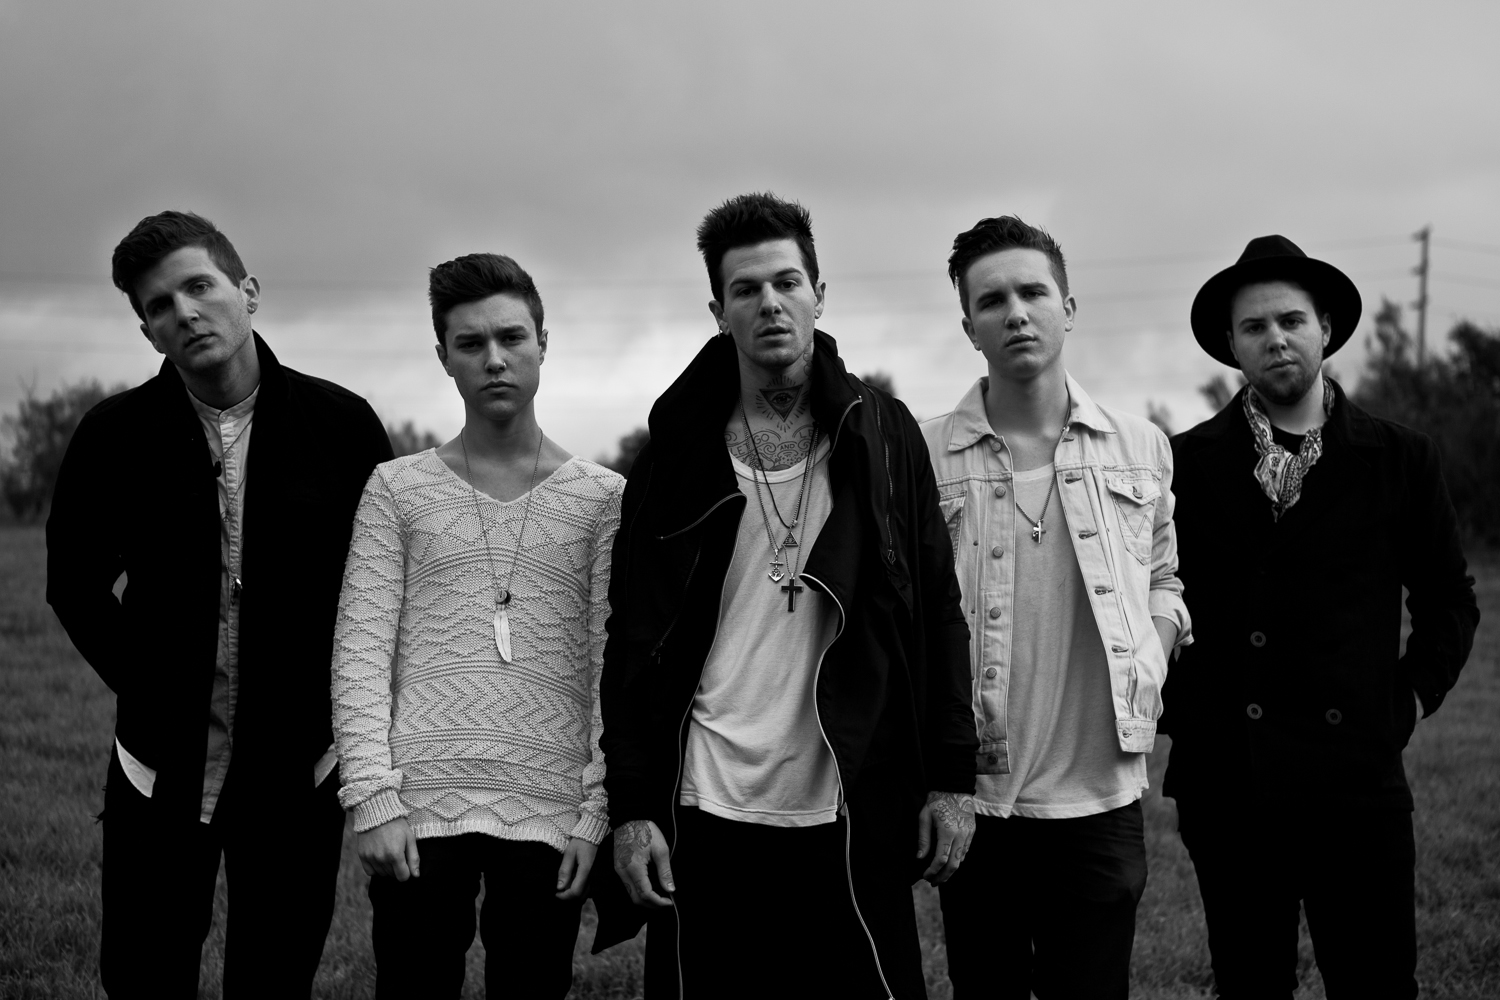
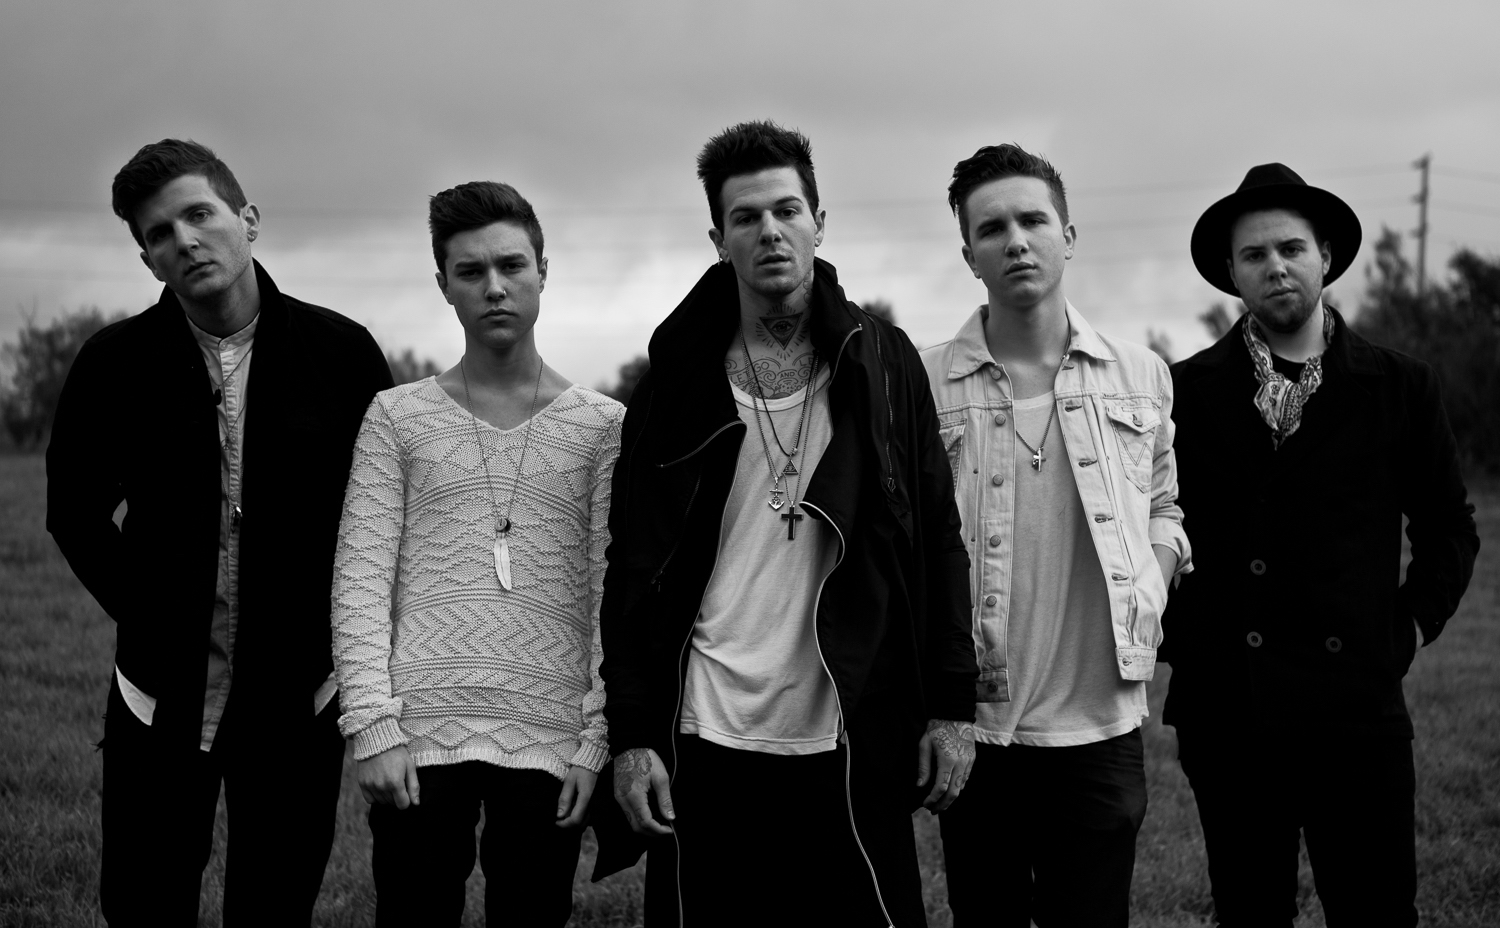
Modified hero image and button hover, #1 #2 #3 #4

diff --git a/css/default.css b/css/default.css
@@ -8,6 +8,10 @@ body {
 /*Css for header*/
 .header {
   background-color: #10100a;
+  position: fixed;
+  width: 100%;
+  z-index: 10;
+  margin: 0px 0px 0px 0px;
 }
 
 .navigation,
@@ -33,7 +37,6 @@ body {
   background-image: url(../images/neighbourhood.jpg);
   background-repeat: no-repeat;
   max-width: 100%;
-  background-position: center center;
   background-attachment: fixed;
   background-size: cover;
 }
@@ -50,6 +53,10 @@ body {
   font-family: 'Oxygen', helvetica, sans-serif;
   font-size: 24px;
   color: #fdfdf4;
+}
+
+.sign-up:hover {
+  color: #f1fd14;
 }
 
 .modal-title {
@@ -85,6 +92,16 @@ body {
   border-color: #a3a57c;
 }
 
+.submit:hover {
+  background-color: #f1fd14;
+  color: #10100a;
+}
+
+.exit:hover {
+  background-color: #10100a;
+  color: #fdfdf4;
+}
+
 .close {
   color: #fbfec2;
 }
@@ -113,6 +130,11 @@ body {
   border: 1px solid;
   border-color: #fdfdf4;
   border-radius: 10px;
+  z-index: 11;
+}
+
+#login:hover {
+  color: #f1fd14;
 }
 
 #login {
@@ -154,6 +176,11 @@ body {
   margin-right: 20px;
 }
 
+.submit1:hover {
+  background-color: #f1fd14;
+  color: #10100a;
+}
+
 #checkbox1 {
   margin: 0px 10px 0px 10px;
 }
@@ -163,6 +190,10 @@ body {
   font-family: 'Oxygen', helvetica, sans-serif;
   font-size: 24px;
   color: #fdfdf4;
+}
+
+.contact-us:hover {
+  color: #f1fd14;
 }
 
 #name {
@@ -309,8 +340,20 @@ body {
   margin-left: auto;
 }
 
+.premium-button:hover {
+  background-color: #10100a;
+  color: #f1fd14;
+  border-color: #f1fd14; 
+}
+
 .free-button {
   background-color: #222321;
+  color: #a3a57c;
+  border-color: #a3a57c;
+}
+
+.free-button:hover {
+  background-color: #10100a;
   color: #a3a57c;
   border-color: #a3a57c;
 }
@@ -324,7 +367,7 @@ body {
   text-align: center;
   font-family: 'Oxygen', helvetica, sans-serif;
   color: #fdfdf4;
-  margin-top: 60px;
+  margin-top: 40px;
 }
 
 .icon{

diff --git a/index.html b/index.html
@@ -85,7 +85,7 @@
         <div class="modal-body">
           <form>
             <div class="form">
-              <div><label class="info" for="name">Username:<input id="name" type="text" value="john doe" maxlength="25"></label></div>
+              <div><label class="info" for="name">Name:<input id="name" type="text" value="John Doe" maxlength="25"></label></div>
               <div><label class="info" for="email">Email:<input id="email" type="text" value="email@example.com"></div>
             </div>
             <div class="concern">Please select your concern</div>
